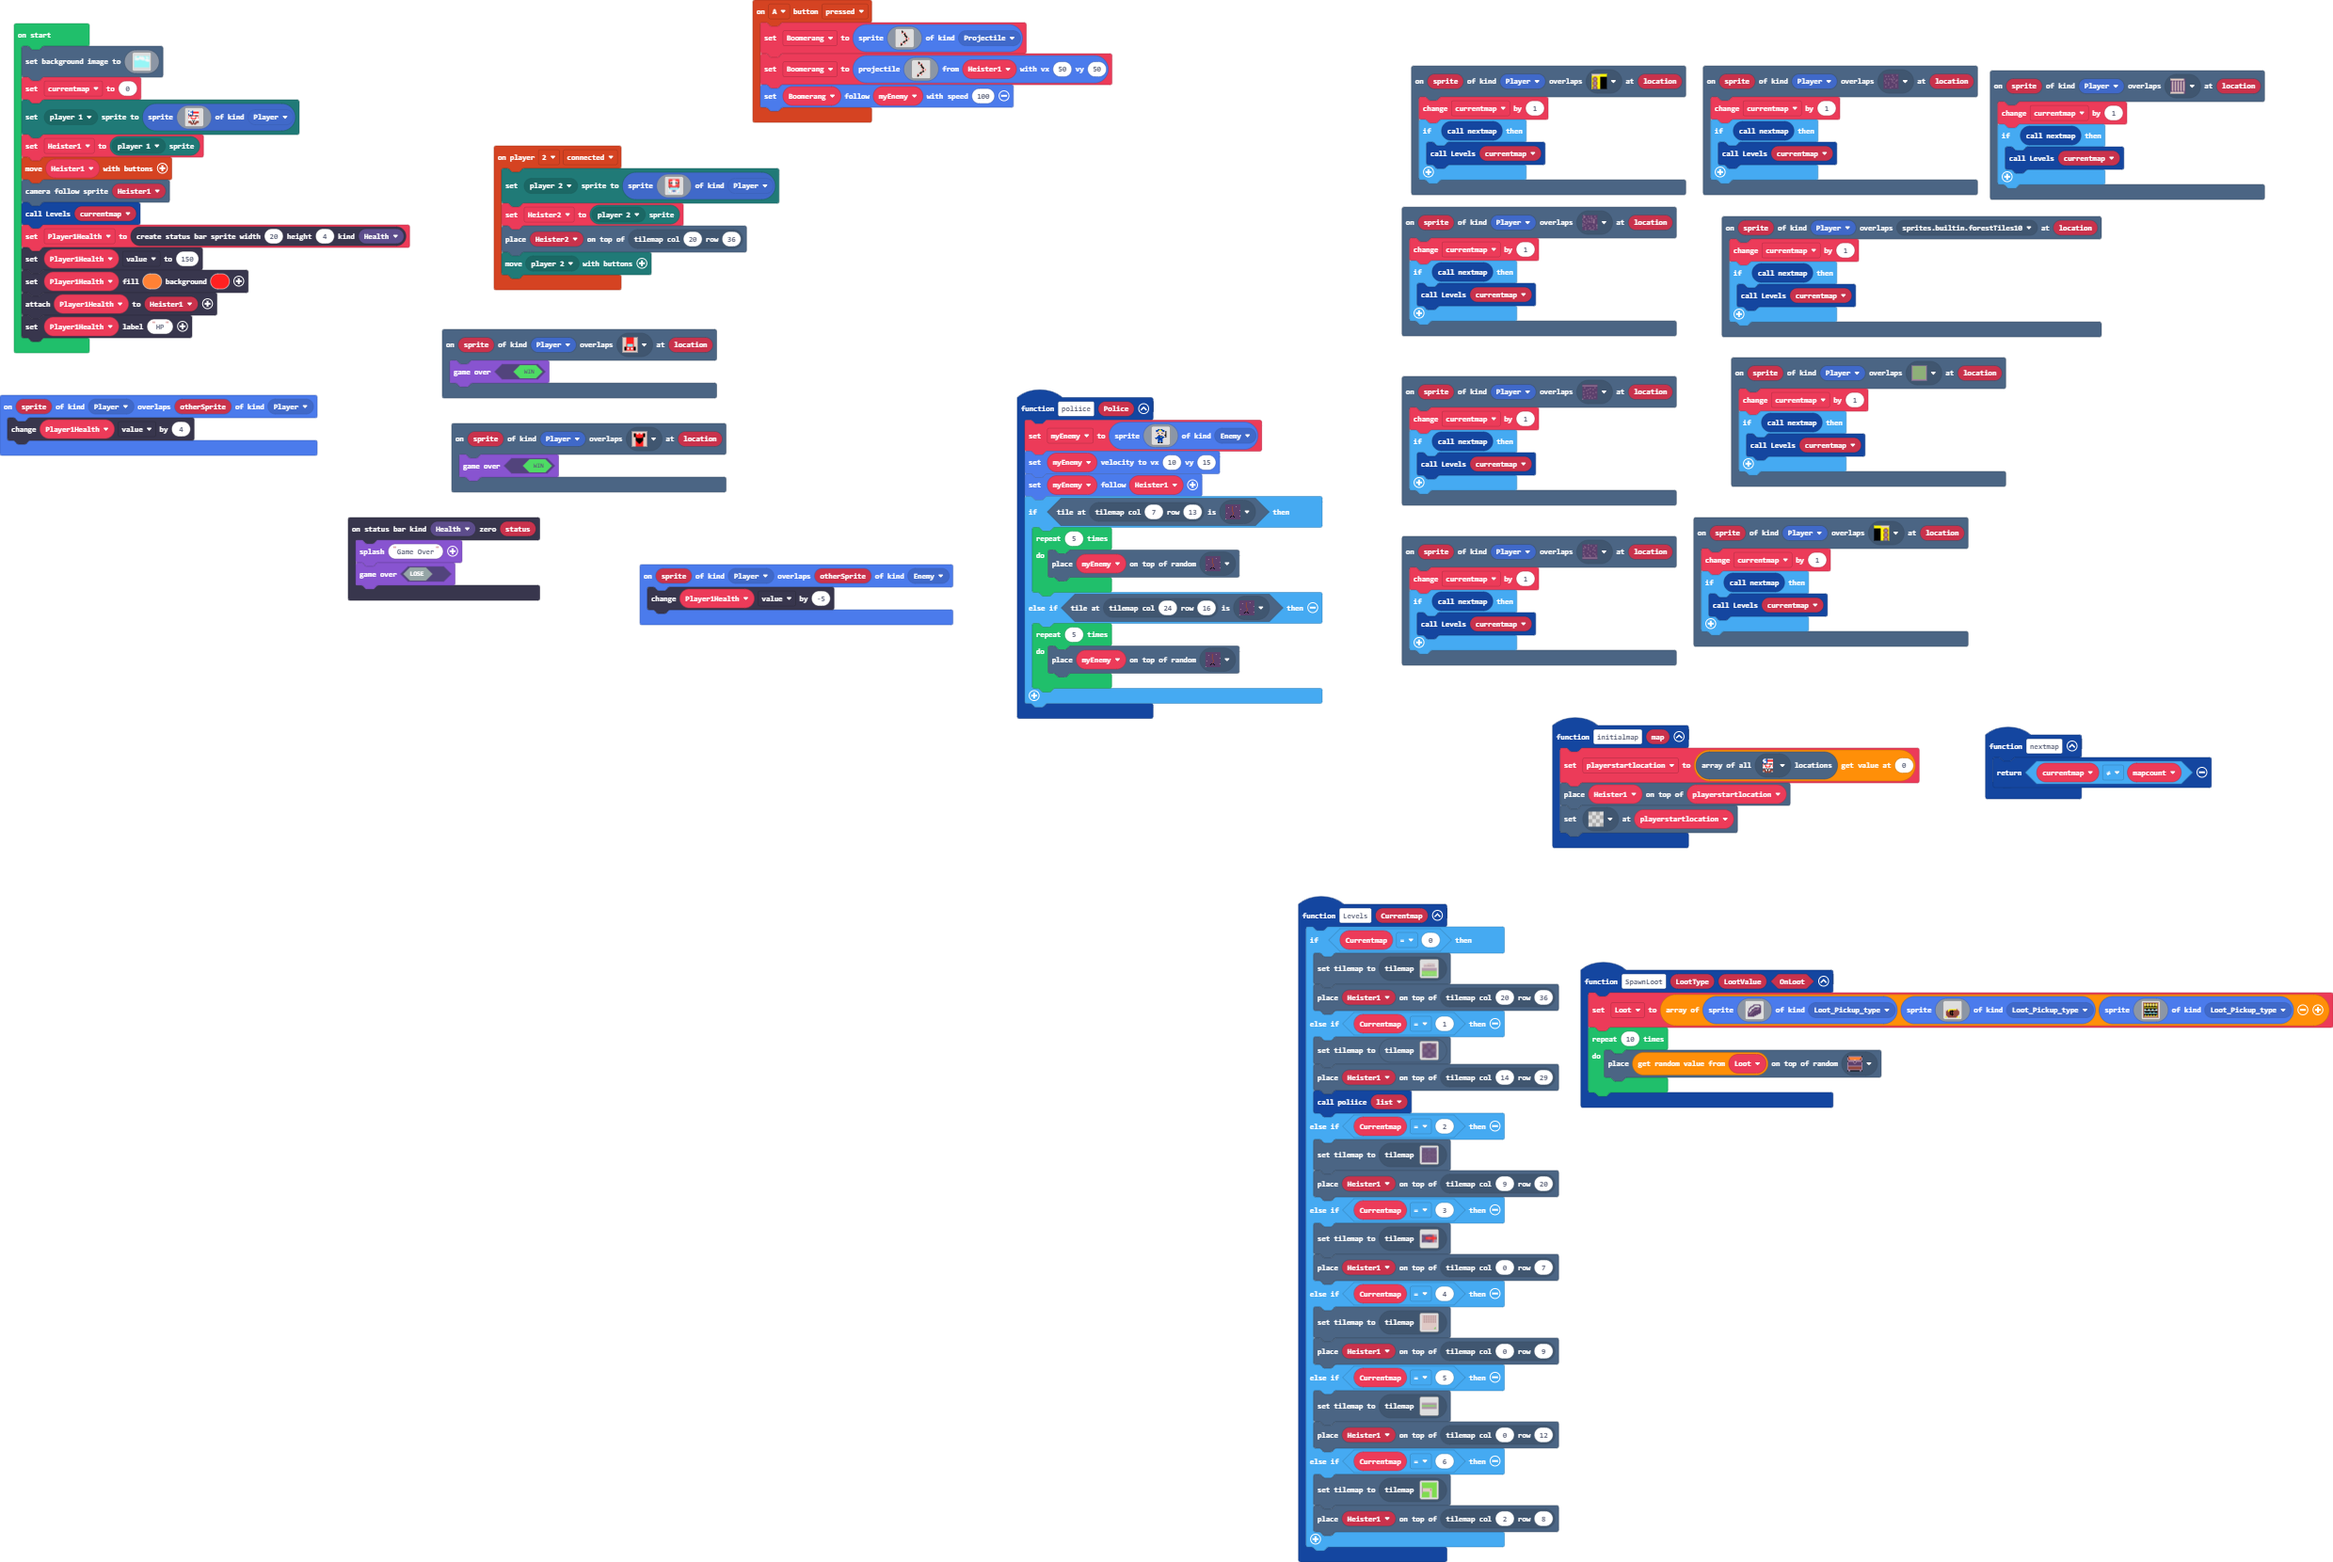
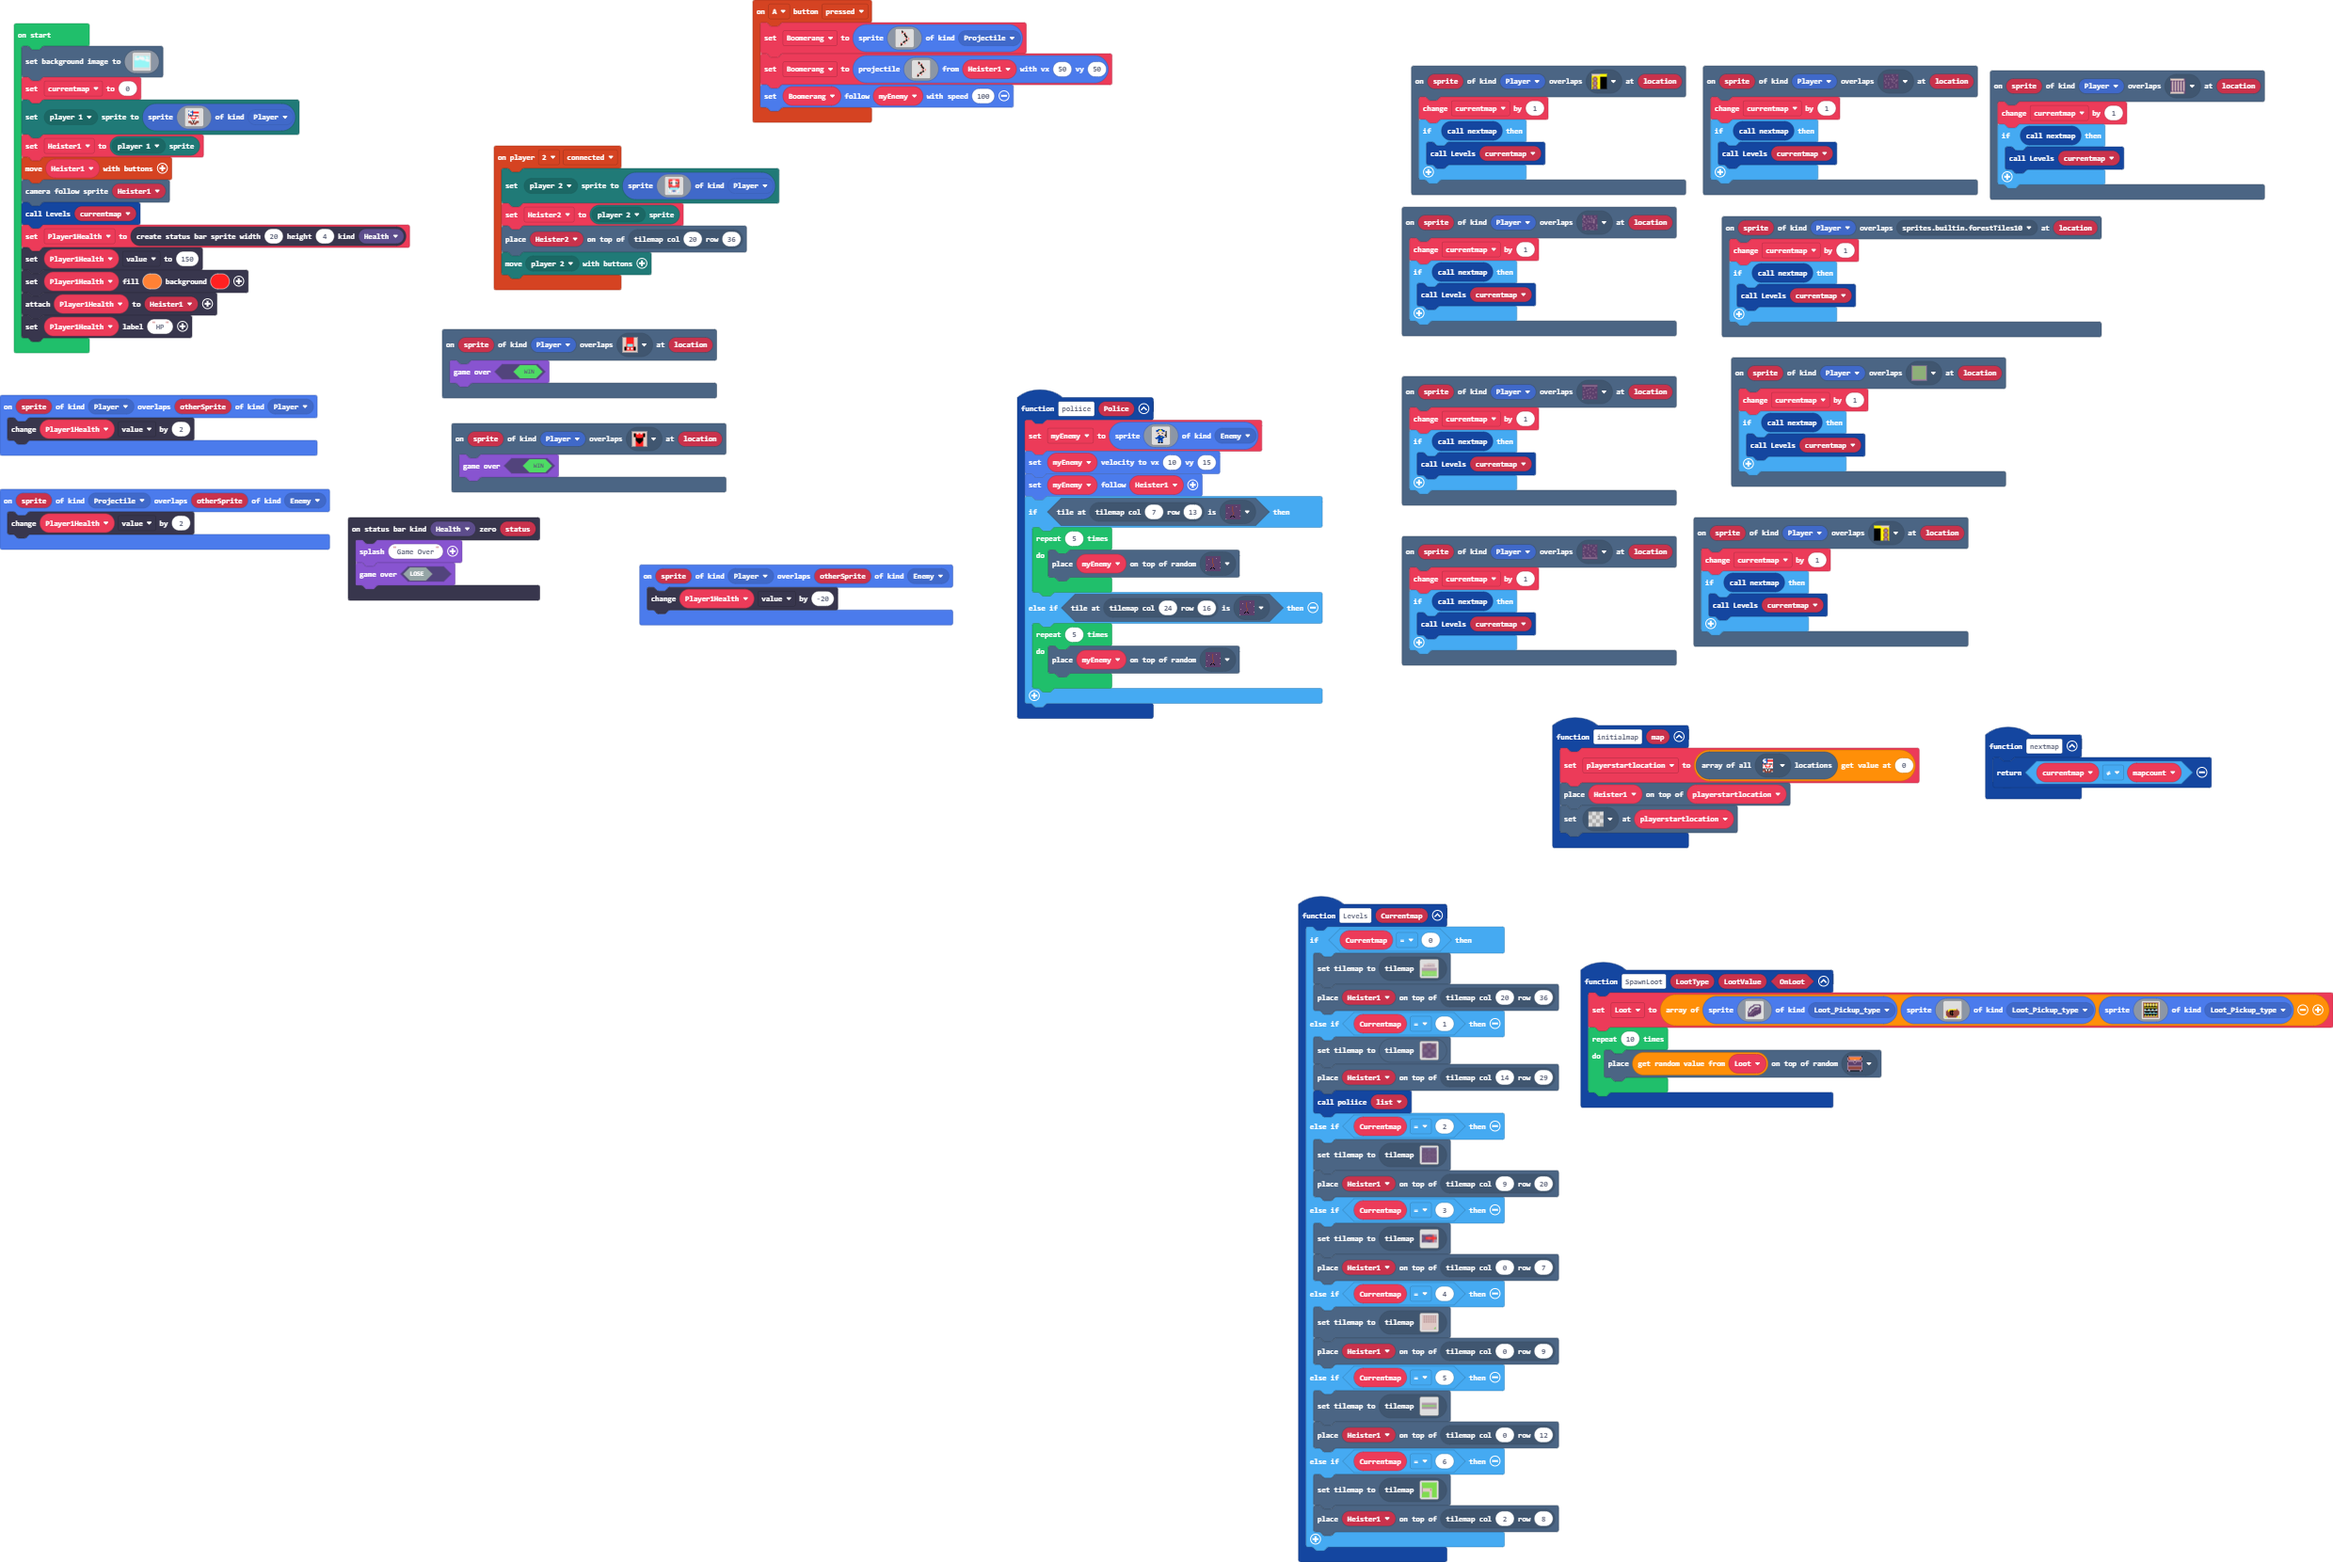
Update main.blocks, main.ts

Changed region(s): [[0.0, 0.3072, 0.1553, 0.3687], [0.3417, 0.3687, 0.3727, 0.3994]]

diff --git a/main.ts b/main.ts
@@ -119,6 +119,9 @@ function nextmap () {
     let mapcount = 0
     return currentmap != mapcount
 }
+sprites.onOverlap(SpriteKind.Projectile, SpriteKind.Enemy, function (sprite, otherSprite) {
+    Player1Health.value += 2
+})
 scene.onOverlapTile(SpriteKind.Player, assets.tile`myTile35`, function (sprite, location) {
     game.gameOver(true)
 })
